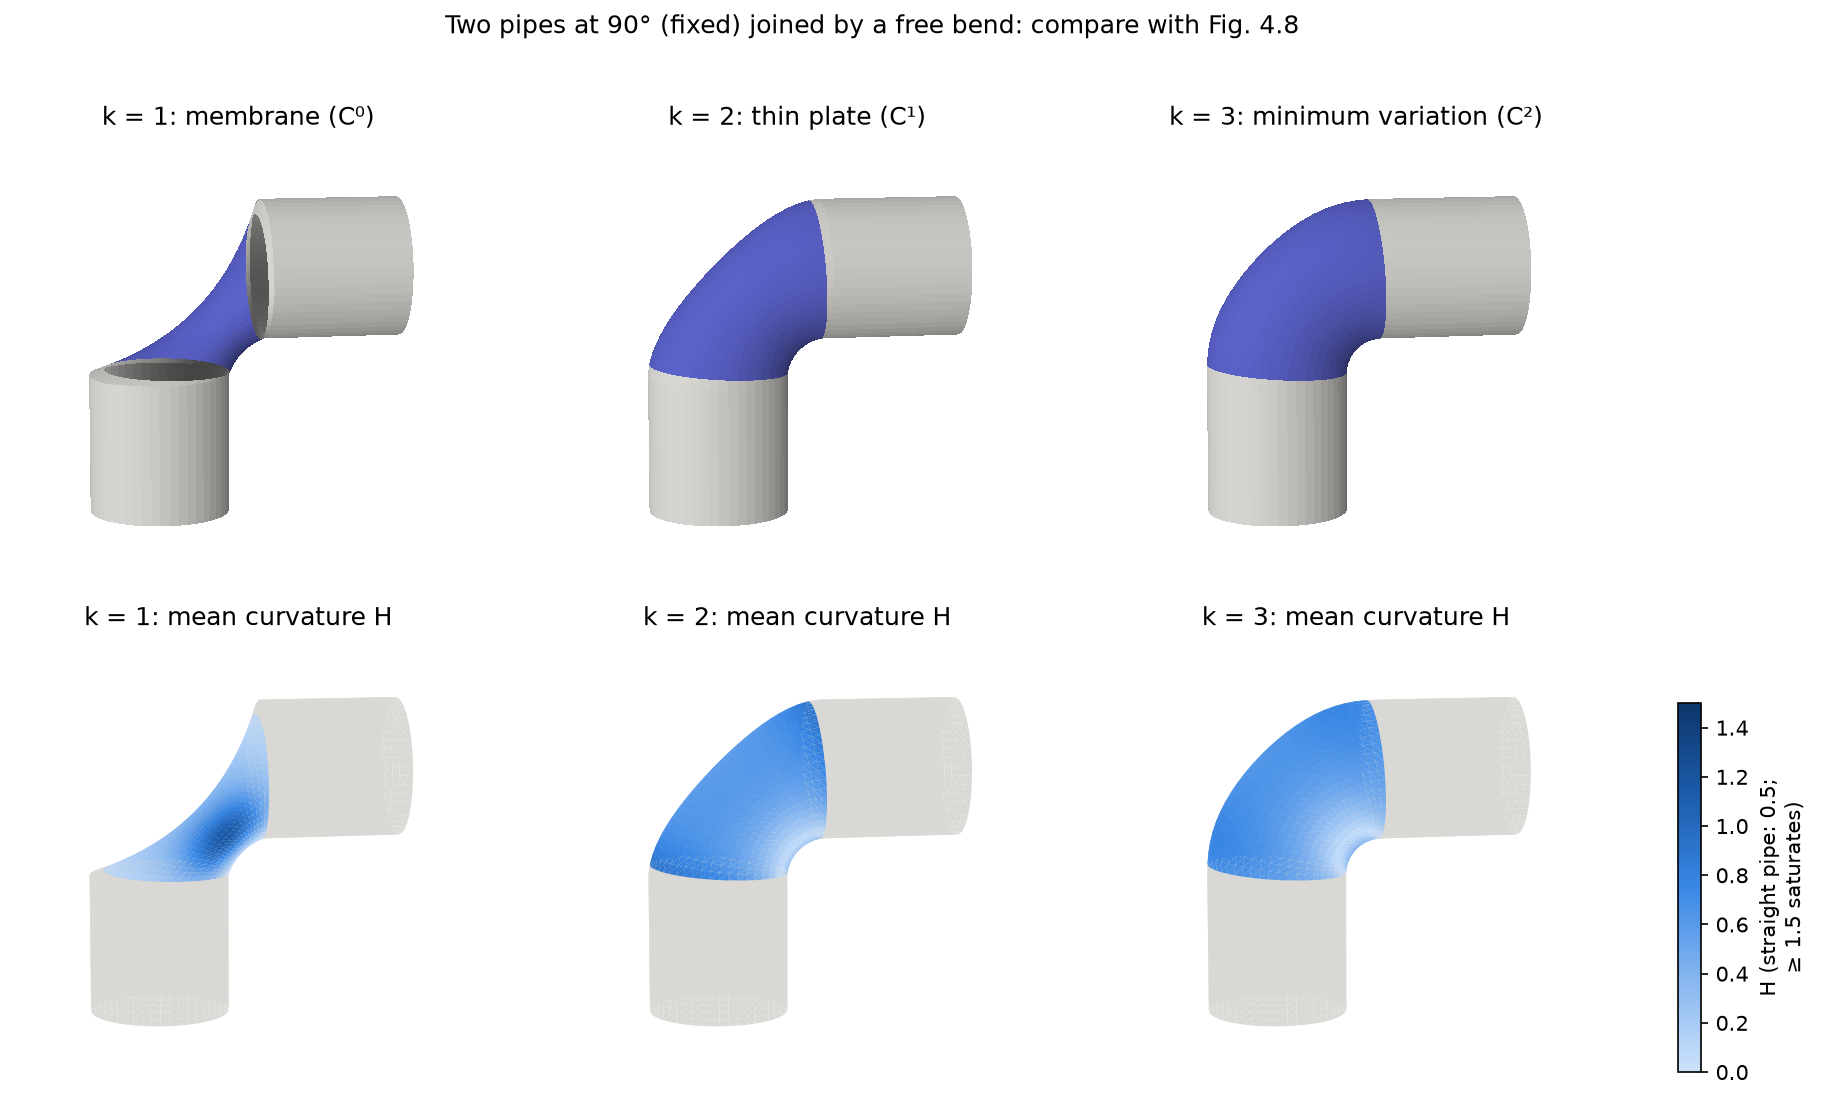
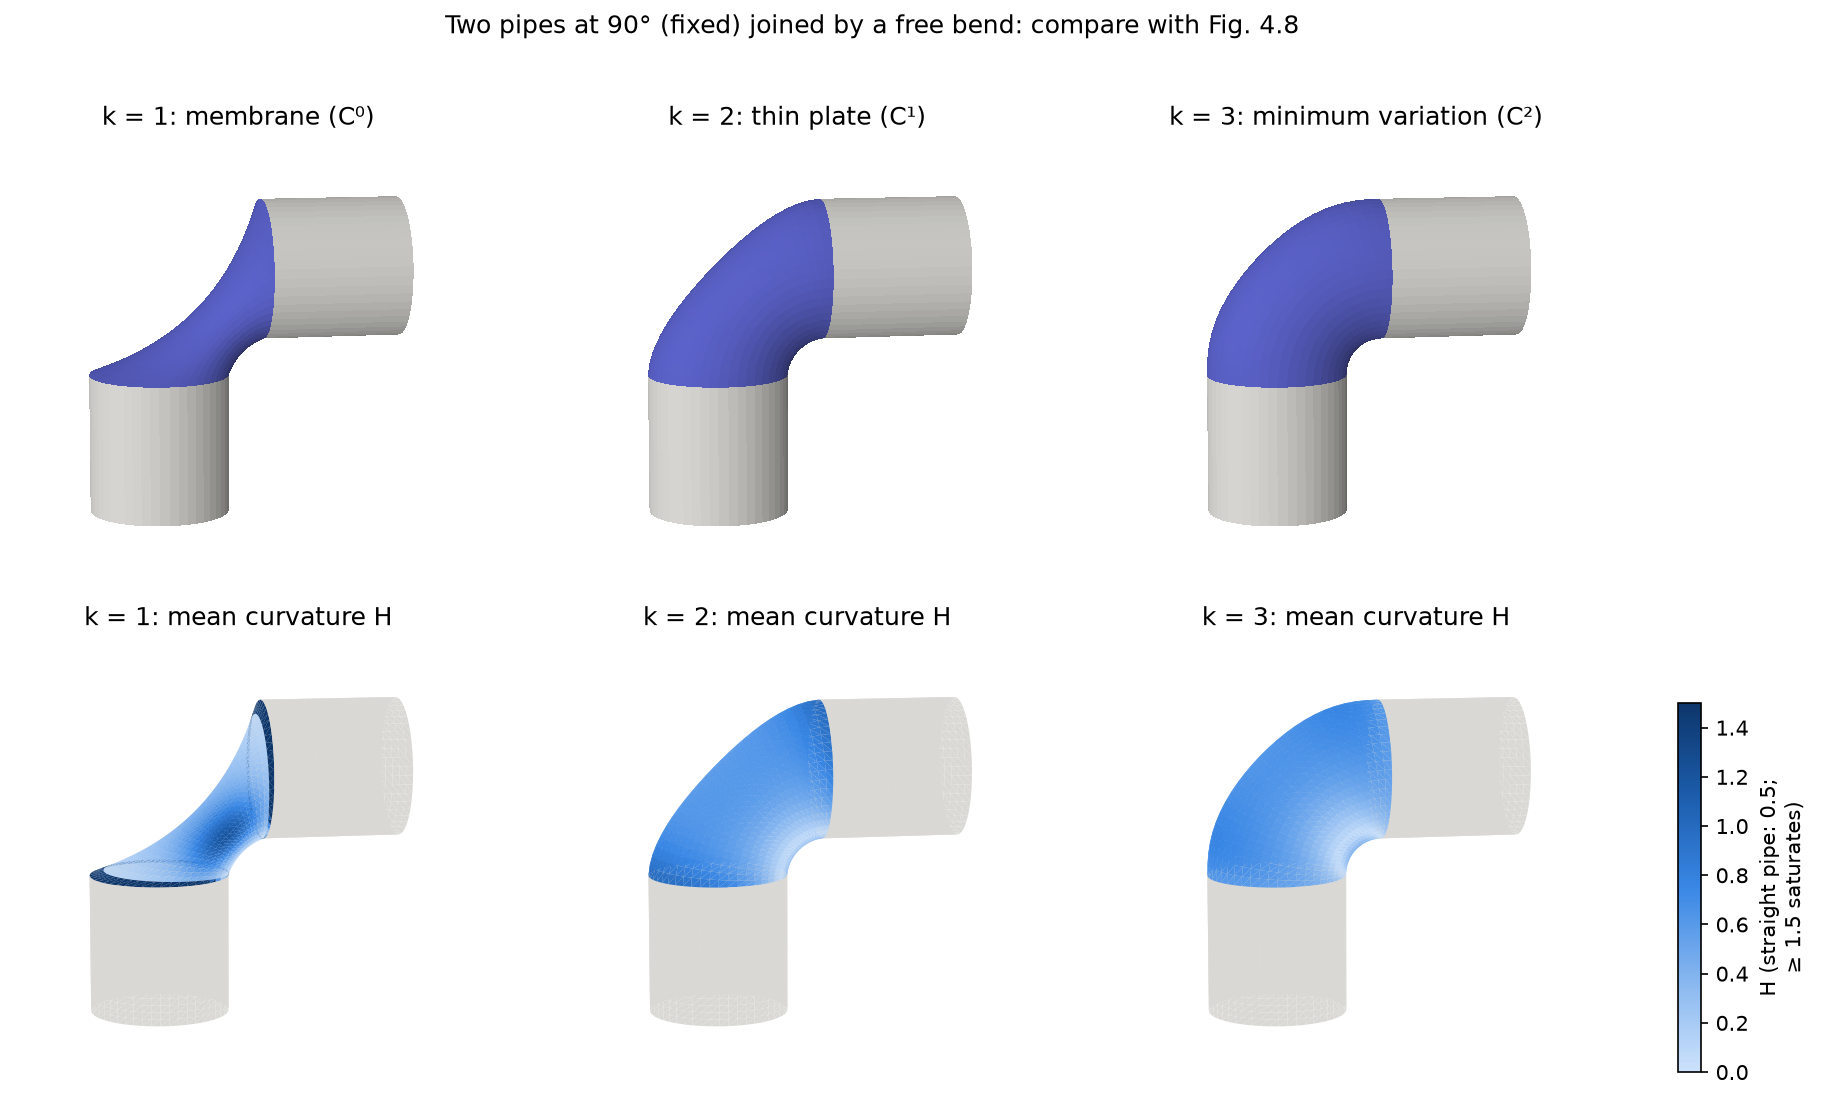
Color the elbow's free region up to the last fixed ring (#11)
A face is shown as free if it has any free vertex, so the color boundary is the
true border of the free region; the k = 1 kink no longer looks like a gray lip.

diff --git a/examples/04_fairing.py b/examples/04_fairing.py
@@ -205,7 +205,10 @@ def figure_elbow():
     Bottom row: the same surfaces colored by mean curvature (fixed pipes gray).
     """
     V, F, free = mesh.pipe_elbow()
-    free_face = free[F].all(axis=1)
+    # a face belongs to the free surface if it has at least one free vertex: the color boundary
+    # is then the last fixed ring (the true border, with the pipe's radius)
+    free_face = free[F].any(axis=1)
+    joint = mesh.ring_distance(F, np.flatnonzero(free), max_k=1) == 1      # the last fixed rings
     view = (10, -100)                         # matched by eye to Fig. 4.8: nearly frontal, slightly above
     fig = plt.figure(figsize=(12.5, 8.2))
     fig.subplots_adjust(left=0.02, right=0.9, wspace=0.05, hspace=0.12)
@@ -223,7 +226,7 @@ def figure_elbow():
         ax.set_title(f"k = {k}: {name}")
 
         H = mean_curvature(W, F)
-        H[~free] = np.nan                                         # fixed pipes in gray
+        H[~(free | joint)] = np.nan                               # pipes in gray, except the joint rings
         ax = fig.add_subplot(2, 3, col + 4, projection="3d")
         _, surf = viz.plot_mesh(W, F, H, ax, vmin=0, vmax=1.5, edges=False, colorbar=False,
                                 elev=view[0], azim=view[1], title=f"k = {k}: mean curvature H")

diff --git a/examples/04_polyscope_elbow.py b/examples/04_polyscope_elbow.py
@@ -24,8 +24,10 @@ results = {"start: quarter torus": V}
 for k in (1, 2, 3):
     results[f"k = {k}"] = solve_fair(V, F, bend, k)
 
-# one color per face: blue if all three vertices are in the free bend, gray otherwise
-face_colors = np.where(bend[F].all(axis=1)[:, None], [0.36, 0.38, 0.79], [0.85, 0.85, 0.83])
+# one color per face: blue if it has at least one free vertex (it moved in the solve), gray if
+# all three are fixed. The color boundary is then the last fixed ring, the true border of the
+# free region, which has exactly the pipe's radius.
+face_colors = np.where(bend[F].any(axis=1)[:, None], [0.36, 0.38, 0.79], [0.85, 0.85, 0.83])
 
 ps.init()
 ps.set_up_dir("z_up")

diff --git a/docs/phases/phase-4.md b/docs/phases/phase-4.md
@@ -179,7 +179,7 @@ Tests (`tests/test_fairing.py`): rings 1–3 around the free region end before t
 
 ![Two pipes at 90 degrees, k = 1, 2, 3](../img/11-elbow-k123.png)
 
-`docs/img/11-elbow-k123.png`. Both rows use the book's camera angle, matched by eye to Fig. 4.8 (nearly frontal, slightly from above: elevation 10°, azimuth −100°). Top row: rendered like the book, with lit surfaces, gray fixed pipes and a blue free bend. Bottom row: the same surfaces colored by mean curvature. The results reproduce Fig. 4.8.
+`docs/img/11-elbow-k123.png`. Both rows use the book's camera angle, matched by eye to Fig. 4.8 (nearly frontal, slightly from above: elevation 10°, azimuth −100°). Top row: rendered like the book, with lit surfaces, gray fixed pipes and a blue free bend; a triangle is blue if it has at least one free vertex (see Pitfalls). Bottom row: the same surfaces colored by mean curvature, shown on the free bend and on the two joint rings (the last fixed rings), where the k = 1 kink concentrates its curvature. The results reproduce Fig. 4.8.
 - **k = 1:** the membrane collapses into a thin, twisted funnel. Minimizing area pulls the bend's outer side inward, and the curvature concentrates in a dark band.
 - **k = 2:** a round elbow, joining both pipes tangentially.
 - **k = 3:** an even fuller, more evenly curved elbow.
@@ -229,5 +229,6 @@ Fig. 4.8 is taken from another paper (Botsch & Kobbelt 2004), and the book does 
 
 **Pitfalls.**
 - *"Smooth" needs refinement to be tested.* At a single resolution, the k = 2 joint angle (6.9°) is not much larger than the turning inside the free region (4.7°), so one picture cannot separate "a small kink" from "a smooth bend". The C^(k−1) claim is about how the angle behaves as h → 0.
+- *Draw the color boundary where the free region really ends.* A first version painted a triangle blue only if *all three* vertices were free. The strip between the last fixed ring and the first free ring was then gray, although two of its vertices had moved. For k = 1 that strip is the start of the kink: the first free ring has radius 0.915 (pipe: 1), and the strip leans 57° inward from the wall. It appeared as a gray "lip" on top of the pipe, with the blue starting on a circle smaller than the pipe. Coloring a triangle blue when it has *any* free vertex puts the color boundary on the last fixed ring, whose radius is exactly the pipe's. (For k = 2 and 3 the joint is smooth, so the two rules look the same: the first strip leans 4° and 0°.)
 - *Enough fixed rings.* k = 3 needs three fixed rings beyond the free region. If the bands were thinner, L³ would reach the tube's open ends and use the one-sided boundary Laplacian (#5).
 - *The uniform membrane pinches much more.* Measured ring by ring (mean distance of a ring's vertices from the ring's own center), the k = 1 neck has radius 0.20 with uniform weights vs 0.62 with cotangent weights (k = 2: 0.65 vs 0.93; k = 3: 0.92 vs 0.96), and the uniform k = 1 joint angle is 55° instead of about 11°. The tube's triangles are stretched (0.196 around × 0.1 along), and the uniform weights ignore that, as in #8 and #12.
